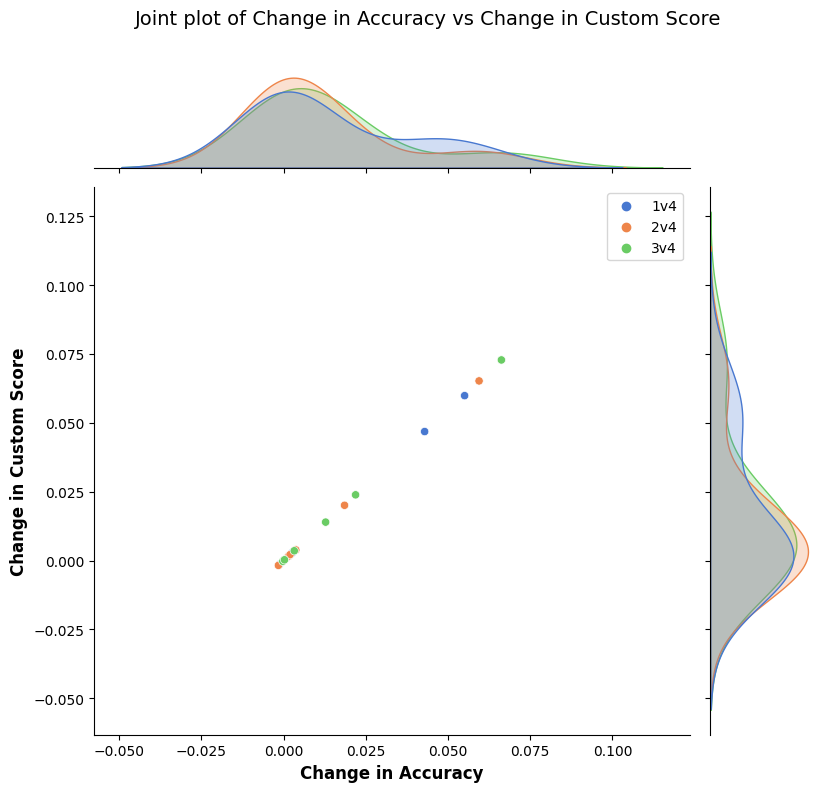
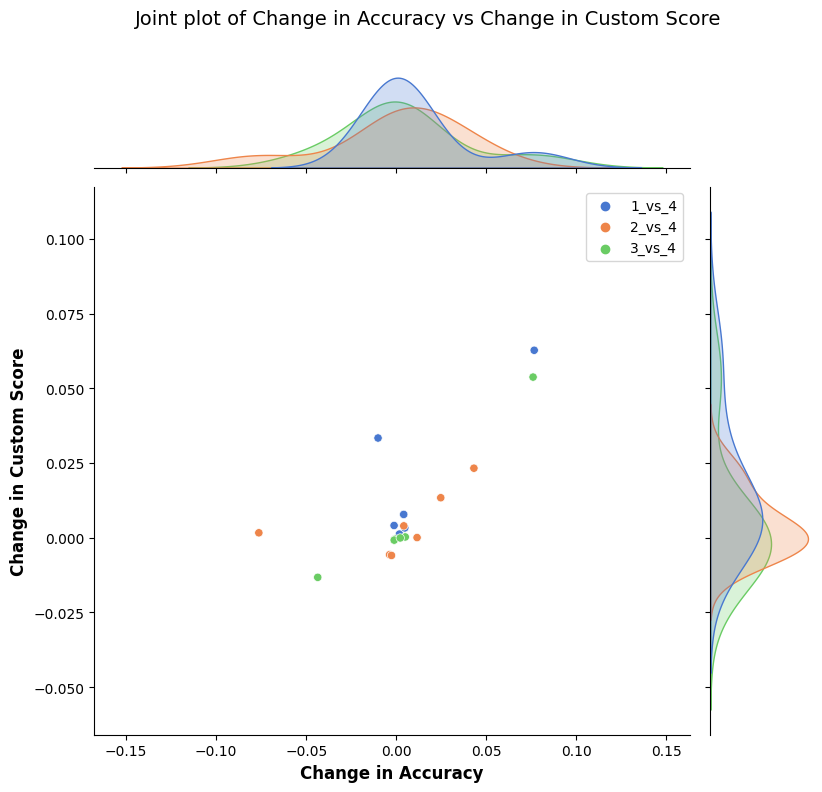
Revisiting drop-column analysis

diff --git a/Phase_1/project_scripts/evaluation/drop column analysis/drop_column_analysis.py b/Phase_1/project_scripts/evaluation/drop column analysis/drop_column_analysis.py
@@ -7,10 +7,10 @@ from matplotlib import pyplot as plt
 from sklearn.linear_model import LogisticRegression
 
 from Phase_1.config import FEATURES
-from Phase_1.project_scripts.preprocessing.preprocessing import imputation_applier, imputation_pipeline, preprocess_ovr, \
-    scaling_applier, scaling_pipeline, split_data
+from Phase_1.project_scripts.preprocessing.preprocessing import apply_preprocessing_without_interaction_terms, \
+    preprocess_ovr
 from Phase_1.project_scripts.utility.data_loader import load_data_old
-from Phase_1.project_scripts.utility.model_utils import add_interaction_terms, calculate_metrics, \
+from Phase_1.project_scripts.utility.model_utils import calculate_metrics, \
     ensure_directory_exists, train_model
 from Phase_1.project_scripts.utility.path_utils import get_path_from_root
 
@@ -37,20 +37,24 @@ def visualize_results(df):
                         (p.get_x() + p.get_width() / 2., p.get_height()),
                         ha='center', va='center',
                         xytext=(0, 9),
-                        textcoords='offset points')
+                        textcoords='offset points',
+                        fontsize=9)  # Adjust fontsize for annotations
+
+    # Sort the dataframe by change_in_accuracy for better visualization
+    df = df.sort_values(by="change_in_accuracy", ascending=False)
 
     # Bar plot for change in accuracy
-    plt.figure(figsize=(18, 7))
+    plt.figure(figsize=(20, 8))  # Adjust the size of the figure
     ax1 = sns.barplot(data=df, x="column_dropped", y="change_in_accuracy", hue="type")
-    plt.title("Change in Accuracy by Column Dropped", fontsize=18)
-    plt.xlabel("Columns Dropped", fontsize=15)
-    plt.ylabel("Change in Accuracy", fontsize=15)
+    plt.title("Change in Accuracy by Column Dropped", fontsize=20)
+    plt.xlabel("Columns Dropped", fontsize=17)
+    plt.ylabel("Change in Accuracy", fontsize=17)
     plt.xticks(rotation=45)
-    plt.legend(title="Dataset Type", loc="upper right", fontsize=12)
+    plt.legend(title="Dataset Type", loc="upper right", fontsize=14)
     annotate_bars(ax1)
     plt.tight_layout()
+    plt.grid(axis='y')  # Add horizontal gridlines
     plt.savefig(os.path.join(RESULTS_DIR, "accuracy_drop_column.png"))
-    plt.close()
 
     # Bar plot for change in custom score
     plt.figure(figsize=(18, 7))
@@ -76,69 +80,54 @@ def evaluate_with_drop_column(output_column):
     df = load_data_old()
     datasets = preprocess_ovr(df, output_column)
 
-    features = FEATURES.copy()
-    features.remove("PolygenicScoreEXT")
-    fixed_element = "PolygenicScoreEXT"
-
-    feature_pairs = [(fixed_element, x) for x in features if x != fixed_element]
-
-    for config_name, (X, y) in datasets.items():
+    for key, (X, y) in datasets.items():
         # Store results
         results = []
 
-        for feature_pair in feature_pairs:
+        X_train, y_train, X_test, y_test = apply_preprocessing_without_interaction_terms(X, y, key)
+        X_train = pd.DataFrame(X_train)
 
-            # Splitting and preprocessing the data
-            X_train, X_test, y_train, y_test = split_data(X, y)
+        model = LogisticRegression(max_iter=10000, multi_class='ovr', penalty="elasticnet", solver="saga", l1_ratio=0.5)
 
-            impute = imputation_pipeline()
-            X_train_imputed = imputation_applier(impute, X_train)
+        # Storing the original model's performance as the baseline
+        original_model = train_model(X_train, y_train, model)
+        y_pred = original_model.predict(X_test)
+        baseline_metrics = calculate_metrics(y_test, y_pred, MODEL_NAME, key, "test")
 
-            X_train_imputed = add_interaction_terms(X_train_imputed, feature_pair)
+        feature_names = FEATURES
 
-            X_test_imputed = imputation_applier(impute, X_test)
+        for column in feature_names:
+            try:
+                logger.info(f"Training model without {column} column.\n")
+                X_temp = X_train.drop(column, axis=1)
 
-            scaler = scaling_pipeline(X_train_imputed.columns.tolist())
-            X_train_scaled, X_test_scaled = scaling_applier(scaler, X_train_imputed, X_test_imputed)
+                # Train and get the model
+                model = train_model(X_temp, y_train, model)
 
-            model = LogisticRegression(max_iter=10000, multi_class='ovr', penalty="elasticnet", solver="saga", l1_ratio=0.5)
+                # Get predictions and calculate metrics for the test set
+                y_pred_temp = model.predict(X_test.drop(column, axis=1))
+                temp_metrics = calculate_metrics(y_test, y_pred_temp, MODEL_NAME, key, "test")
 
-            # Storing the original model's performance as the baseline
-            original_model = train_model(X_train_scaled, y_train, model)
-            y_pred = original_model.predict(X_test_scaled)
-            baseline_metrics = calculate_metrics(y_test, y_pred, MODEL_NAME, config_name, "test")
+                change_in_accuracy = baseline_metrics["Accuracy"] - temp_metrics["Accuracy"]
+                change_in_custom_score = baseline_metrics["Custom_Metric"] - temp_metrics["Custom_Metric"]
 
-            for column in X_train_scaled.columns:  # Iterating over feature columns only
-                try:
-                    logger.info(f"Training model without {column} column.\n")
-                    X_temp = X_train_scaled.drop(column, axis=1)
+                results.append({
+                    "type": key, "column_dropped": column, "change_in_accuracy": change_in_accuracy,
+                    "change_in_custom_score": change_in_custom_score
+                })
 
-                    # Train and get the model
-                    model = train_model(X_temp, y_train, model)
+            except Exception as e:
+                logger.error(f"Error encountered when processing column {column}. Error: {str(e)}")
+                continue
 
-                    # Get predictions and calculate metrics for the test set
-                    y_pred_temp = model.predict(X_test_scaled.drop(column, axis=1))
-                    temp_metrics = calculate_metrics(y_test, y_pred_temp, MODEL_NAME, config_name, "test")
+        logging.info("Saving results ...\n")
+        results_df = pd.DataFrame(results)
+        results_df.to_csv(os.path.join(RESULTS_DIR, f"column_drop_evaluation_{key}.csv"), index=False)
 
-                    change_in_accuracy = baseline_metrics["Accuracy"] - temp_metrics["Accuracy"]
-                    change_in_custom_score = baseline_metrics["Custom_Metric"] - temp_metrics["Custom_Metric"]
+        logging.info("Visualizing results ...\n")
 
-                    results.append({
-                        "type": config_name, "column_dropped": column, "change_in_accuracy": change_in_accuracy,
-                        "change_in_custom_score": change_in_custom_score
-                    })
-
-                except Exception as e:
-                    logger.error(f"Error encountered when processing column {column}. Error: {str(e)}")
-                    continue
-
-            logging.info("Saving results ...\n")
-            results_df = pd.DataFrame(results)
-            results_df.to_csv(os.path.join(RESULTS_DIR, f"column_drop_evaluation_{config_name}.csv"), index=False)
-
-            logging.info("Visualizing results ...\n")
-            # Visualize the results
-            visualize_results(results_df)
+        # Visualize the results
+        visualize_results(results_df)
 
 
 if __name__ == "__main__":

diff --git a/Phase_1/project_scripts/evaluation/drop column analysis/visualizing_drop_column_analysis.py b/Phase_1/project_scripts/evaluation/drop column analysis/visualizing_drop_column_analysis.py
@@ -6,9 +6,20 @@ import seaborn as sns
 
 from Phase_1.project_scripts import get_path_from_root
 
-# Load the data
-data_path = get_path_from_root("results", "evaluation", "column_drop_evaluation.csv")
-df = pd.read_csv(data_path)
+
+def combine_data_from_files(filenames):
+    dfs = [pd.read_csv(file) for file in filenames]
+    combined_df = pd.concat(dfs, axis=0, ignore_index=True)
+    return combined_df
+
+
+filenames = [
+    get_path_from_root("results", "evaluation", "column_drop_evaluation_1_vs_4.csv"),
+    get_path_from_root("results", "evaluation", "column_drop_evaluation_2_vs_4.csv"),
+    get_path_from_root("results", "evaluation", "column_drop_evaluation_3_vs_4.csv")
+]
+
+df = combine_data_from_files(filenames)
 
 # Select the metrics and group by type and column_dropped
 grouped = df.groupby(['type', 'column_dropped']).mean().reset_index()
